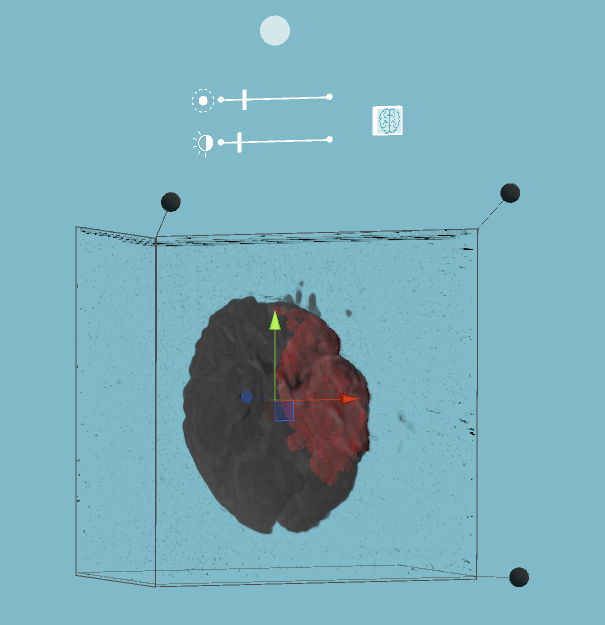
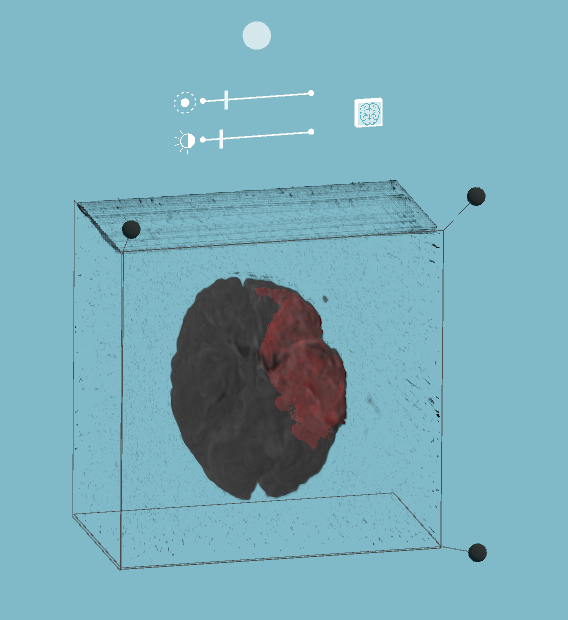
Text imprivements, eschenged images, added teaser image

diff --git a/chapters/implementierung.tex b/chapters/implementierung.tex
@@ -196,8 +196,8 @@ Das Gradientenarray wird anschließend mit Hilfe eines Gauß-Filters geglättet,
 
 Diese wird im Assets-Verzeichnis des Projektes abgelegt. Sie werden in der Szene referenziert, um bei Bedarf an einen Shader übergeben zu werden, der den entsprechenden Datensatz darstellt. 
 
-\todo{Überschrift ändern}
-\section{Implementierung verschiedener Technologien/Plattformen}
+\todo{Überschrift P}
+\section{\textit{HoloLens} spezifische Implementierung}
 \label{plattformen}
 
 \subsection{\textit{HoloLens} Prototyp}
@@ -205,24 +205,19 @@ Im Rahmen der Arbeit wurde neben der endgültigen Anwendung zuerst auch eine pro
 Anhand dieser Demo sollte geprüft werden, ob die Interaktionsmöglichkeiten, die die \textit{HoloLens} bietet ausreichend sind, um einem Neurologen die effektive Untersuchung von MRT-Bildern zu ermöglichen.
 Weiterhin konnten durch das Testen einer realen Anwendung die Erwartungen und Anforderungen eines Arztes an mARt noch weiter spezifiziert werden.  
 
-Wie im Kapitel \ref{konzept}erläutert, haben sich die Gesten der \textit{HoloLens} zwar als ausreichend erwiesen, machten aber die Verwendung von weiteren Bedienelementen notwendig, z.B. zum Wechseln der Manipulationsart. Aus den beschriebenen Gründen wurde für die endgültige Implementierung der Anwendung die \textit{Leap Motion} in das System integriert.
+Wie im Kapitel \ref{konzept}erläutert, haben sich die Gesten der \textit{HoloLens} zwar als ausreichend erwiesen, machten aber die Verwendung von weiteren Bedienelementen notwendig. Der Wechsel zwischen den Manipulationsarten wurde über ein ausklappbares Menü realisiert. Alle Manipulationen erfolgen über \textit{Air tap} und das Bewegen der Hand. Bei eingeklapptem Menü kann der Nutzer so such die Darstellung scrollen. Aus den beschriebenen Gründen wurde für die endgültige Implementierung der Anwendung die \textit{Leap Motion} in das System integriert.
 % Genauer auf Implementierung eingehen
 Der Prototyp wurde in der Szene \todo{Szene einfügen} realisiert und eine Datei zur Bereitstellung für die \textit{HoloLens} sowie ein Video der Anwendung ist im Ergänzungsmaterial zu finden.
 Die Demo ist in Abbildung \ref{img:prototyp} dargestellt.
 
-\todo{Bild austauschen}
 \begin{figure}[!htb]
 	\centering
-	\includegraphics[width=0.7\linewidth]{images/hololens_prototyp.jpg}
+	\includegraphics[width=0.5\linewidth]{images/hololens_prototyp.jpg}
 	\caption{Aufnahme aus der \textit{HoloLens} von der \textit{HoloLens}-Demo, die Interaktion ausschließlich über \textit{HoloLens}-Gesten realisiert.}
 	\label{img:prototyp}
 	\source{Eigene Darstellung}
 \end{figure}
 \FloatBarrier
-
-\subsection{HoloToolkit}
-
-HoloToolkit, Input, Camera etc
 
 \subsection{Positionierung im Raum}
 \label{anchor}

diff --git a/chapters/motivation.tex b/chapters/motivation.tex
@@ -3,6 +3,14 @@
 
 \chapter{Einleitung}
 
+\begin{figure}[!htb]
+	\centering
+	\includegraphics[width=1\linewidth]{images/teaser.png}
+	\caption{}
+	\label{img:teaser}
+\end{figure}
+
+
 Der Einsatz von MRTs\footnote{ Magnetresonanztomographie, Erläuterung in Abschnitt \ref{mrt}} ermöglicht es Ärzten einen Einblick in das innere des menschlichen Körpers zu erlangen, ohne diesen dabei zu verletzten. Sie erhalten Bilder innerer Organe, anhand derer sich dessen Aufbau und Funktionalität beobachten lassen. Aber auch mögliche Fehlfunktionen oder Anomalien können so erfasst werden. So können auf MRT-Scans gebrochene Knochen, innere Verletzungen oder Schlaganfälle erkannt und beurteilt werden. Im Fall von Schlaganfällen kann ein MRT aufzeigen welcher Bereich des Gehirns von diesem betroffen ist, und welchen Umfang der Schaden hat.
 % Wie genau?
 Um den Fall eines Patienten richtig beurteilen zu können ist es unabdingbar, dass der Arzt eine möglichst umfassende Vorstellung von der Struktur des Gehirns des Patienten und vor allem von den vom Schlaganfall betroffenen Bereichen hat. Nur wenn dies der Fall ist, kann eine sinnvolle Diagnose und Behandlung angewandt werden.
@@ -10,13 +18,7 @@ In diesem sowie vielen anderen Anwendungsfällen kann die Visualisierung der MRT
 Diese Arbeit untersucht, inwiefern eine dreidimensionale Darstellung der Daten in einer interaktiven AR-Anwendung die Einschätzung von und den Umgang mit den MRT-Daten verbessert. Der Fokus liegt dabei auf dem Einsatz in der Schlaganfalldiagnose und -behandlung.  
 %Diese Arbeit stellt die Möglichkeit vor den Umgang mit MRT-Daten anschaulicher und intuitiver zu gestalten, um somit die Arbeit von Radiologen im Bereich der Schlaganfallbehandlung zu erleichtern und die Gesundheit ihrer Patienten zu verbessern.
 
-\begin{figure}[!htb]
-	\centering
-	%\includegraphics[width=0.3\linewidth]{images/teaser.png}
-	\caption{}
-	\label{img:teaser}
-\end{figure}
-\FloatBarrier
+
 
 \section{Motivation}
 \label{motivation}

diff --git a/chapters/konzept.tex b/chapters/konzept.tex
@@ -254,7 +254,6 @@ Die Bedienelemente zur Positionierung und Drehung der Ansicht sind in Abbildung 
 \end{figure}
 \FloatBarrier
 
-\todo{In implementierung und nach oben}
 Die Darstellung der MRT-Daten soll weiterhin nach \textbf{U17} die ihr gegebene Position behalten, sodass der Nutzer um sie herum gehen und von allen Seiten betrachten kann, oder an einem bestimmten Standpunkt verankern kann. Dies wäre vor allem in einem Multi-Nutzer-Szenario nützlich, in dem mehrere Nutzer gleichzeitig die Daten betrachten.
 Die Bedienweise sollte sich durch diese Funktionalität nicht ändern. Zu deren Umsetzung gibt es verschiedene Ansätze, die in Abschnitt \ref{anchor} erläutert werden.
 
